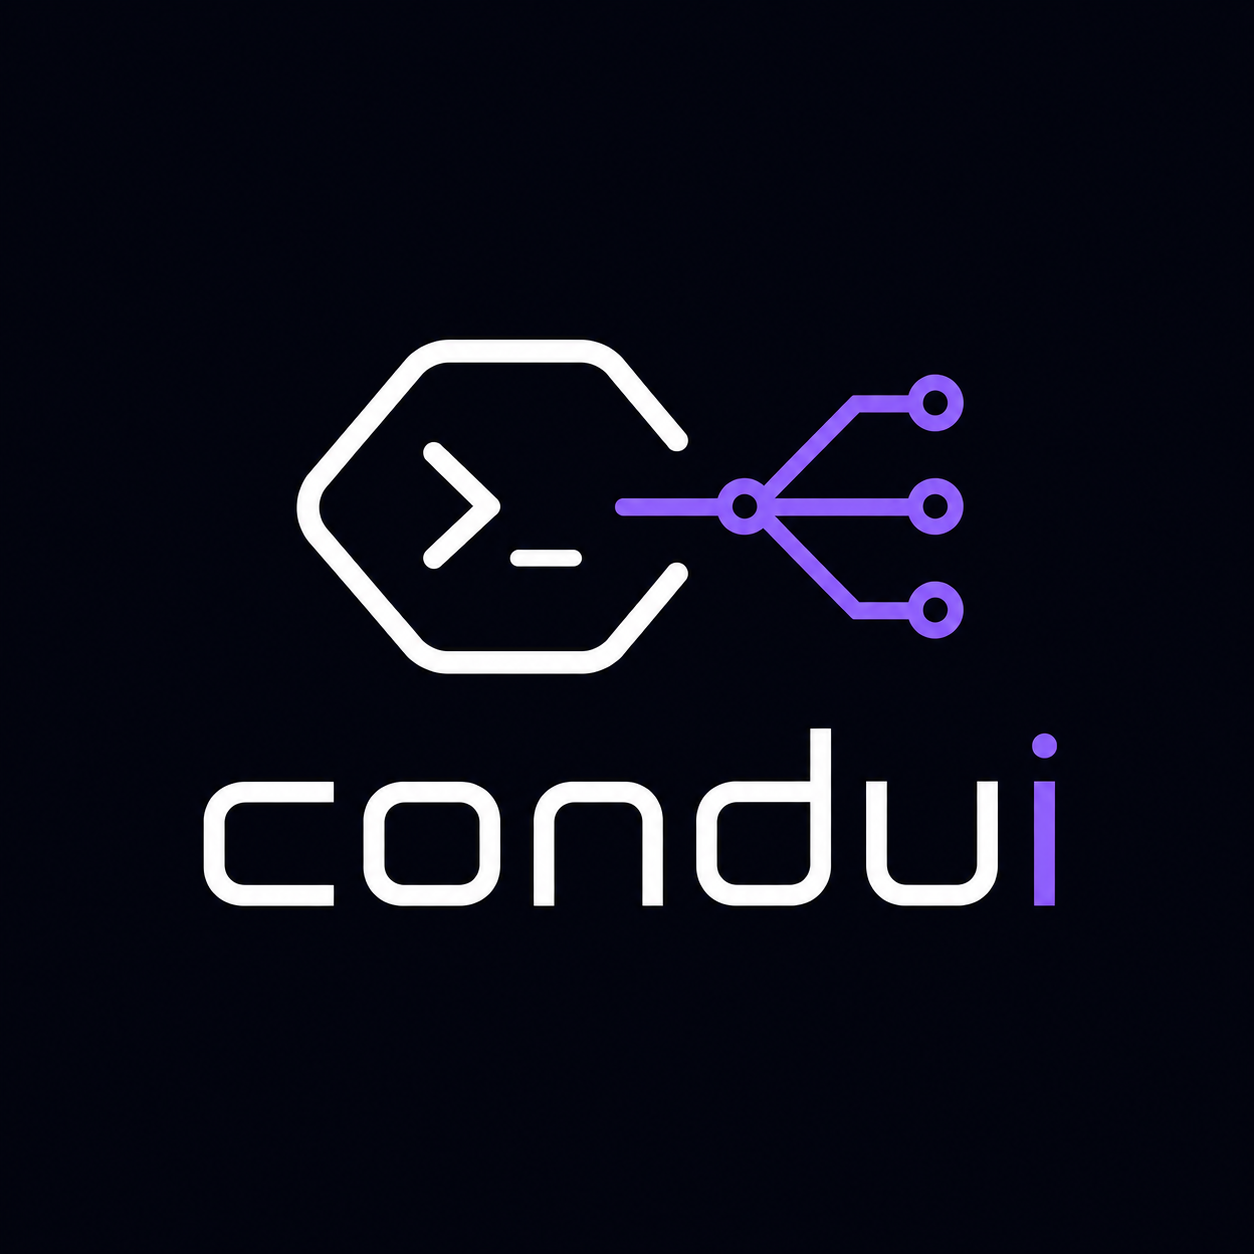
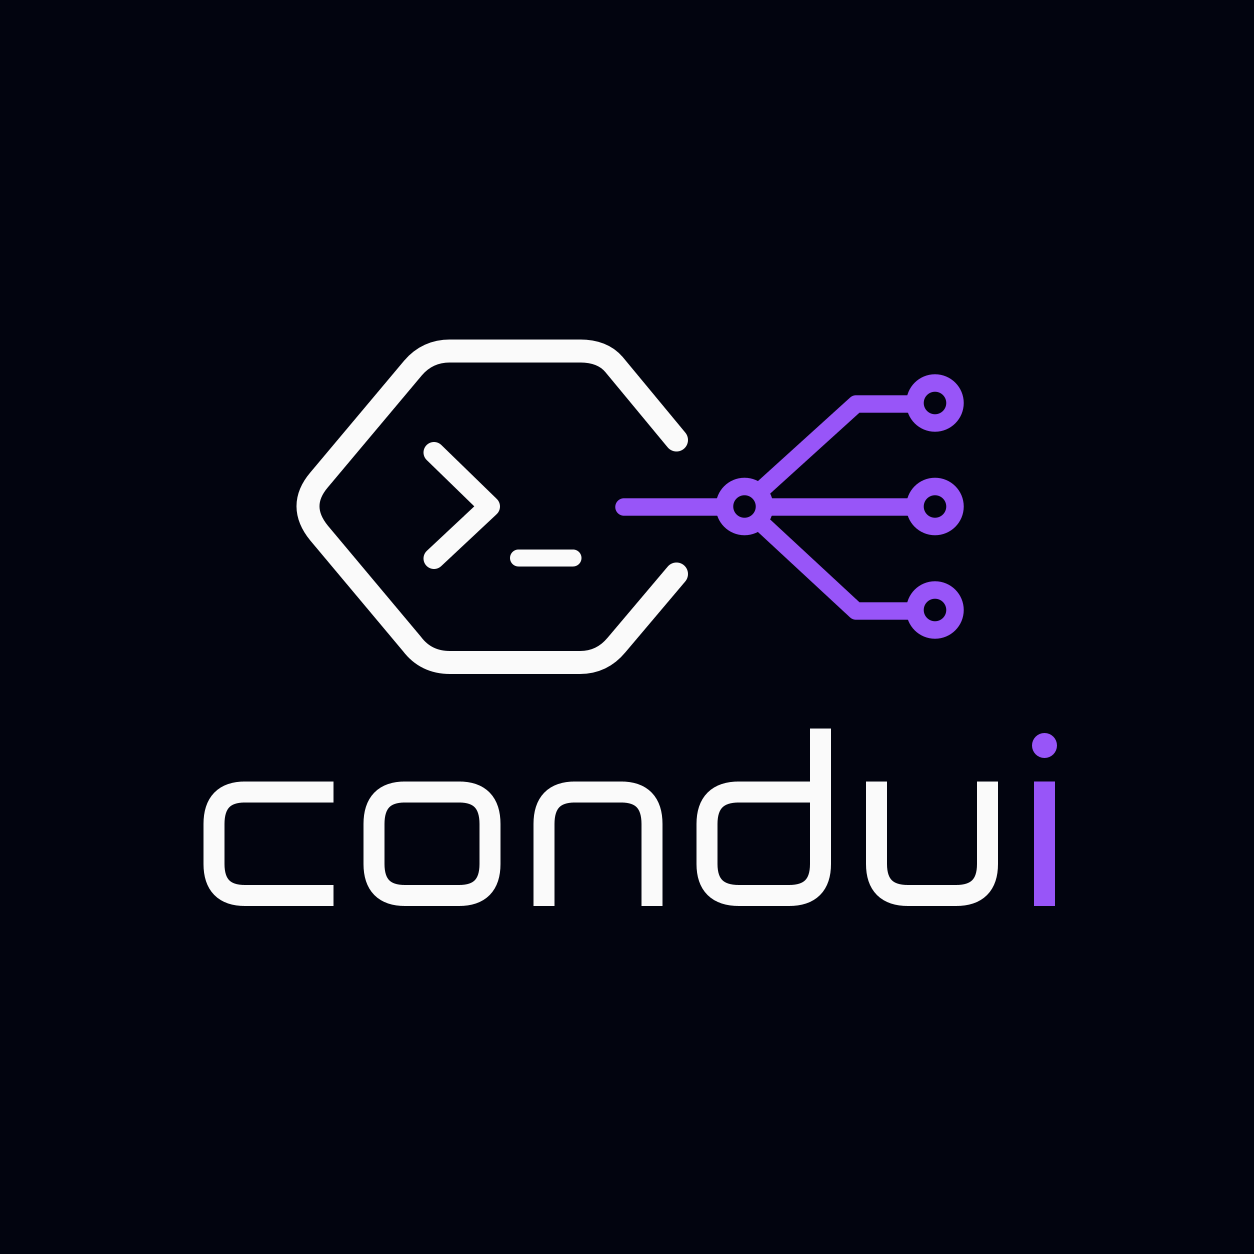
style: tema oscuro

diff --git a/ssh-gui/frontend/src/components/account/AccountModal.jsx b/ssh-gui/frontend/src/components/account/AccountModal.jsx
@@ -5,6 +5,7 @@ import { AccountLogin, AccountLoginWithPin, AccountLogout, AccountRegister, Acco
 import ResponseMessage from "../common/ResponseMessage";
 import useResponseAction from "../../hooks/useResponseAction";
 import LanguageSwitcher from "../common/LanguageSwitcher";
+import ThemeSwitcher from "../common/ThemeSwitcher";
 import SettingsSidebar from "./SettingsSidebar";
 
 const SERVER_URL = import.meta.env.VITE_CONDUI_SERVER_URL || "";
@@ -124,8 +125,8 @@ export default function AccountModal({ onClose, onBusyChange }) {
   const pages = {
     account: <><Header title={status.loggedIn ? t("account.account") : t("account.signInTitle")} text={status.loggedIn ? t("settings.accountDescription") : t("account.signInDescription")} />{status.loggedIn ? <><div className="account-info-card settings-account-card"><div className="account-avatar">{status.email?.[0]?.toUpperCase() || "?"}</div><div className="account-info-details"><div className="account-email">{status.email}</div><span className={`tier-badge tier-${status.tier}`}>{status.tier === "pro" ? t("common.pro") : t("common.free")}</span></div></div><div className="settings-group"><Row title={t("settings.plan")} text={status.limits ? formatLimits(status.limits) : t("account.freePlanDescription")}>{status.tier === "free" && <a className="settings-inline-link" href="https://condui.app/upgrade" target="_blank" rel="noreferrer">{t("account.upgrade")} <FaArrowRight /></a>}</Row></div></> : authForm}</>,
     sync: <><Header title={t("settings.sections.sync")} text={t("settings.syncDescription")} /><div className="settings-group"><Row title={t("settings.syncStatus")} text={status.loggedIn ? (status.lastSync ? t("account.lastSync", { date: new Date(status.lastSync).toLocaleString(i18n.language) }) : t("account.neverSynced")) : t("settings.signInRequired")}><button className="btn-secondary btn-sm" onClick={() => { setSyncDone(false); handleSync(); }} disabled={sync.busy || !status.loggedIn}>{sync.busy ? t("account.syncing") : t("account.syncNow")}</button></Row></div><ResponseMessage {...(sync.response || (syncDone ? { severity: "success", message: t("account.synced") } : {}))} /></>,
-    appearance: <><Header title={t("settings.sections.appearance")} text={t("settings.appearanceDescription")} /><div className="settings-group"><Row title={t("settings.language")} text={t("settings.languageDescription")}><LanguageSwitcher /></Row></div></>,
-    security: <><Header title={t("settings.sections.security")} text={t("settings.securityDescription")} /><div className="settings-empty-state"><strong>{t("settings.securityManaged")}</strong><span>{t("settings.securityManagedDescription")}</span></div></>,
+    appearance: <><Header title={t("settings.sections.appearance")} text={t("settings.appearanceDescription")} /><div className="settings-group"><Row title={t("settings.theme.title")} text={t("settings.theme.description")}><ThemeSwitcher /></Row><Row title={t("settings.language")} text={t("settings.languageDescription")}><LanguageSwitcher /></Row></div></>,
+    security: <><Header title={t("settings.sections.security")} text={t("settings.securityDescription")} /><Row className="settings-empty-state" title={t("settings.securityManaged")} text={t("settings.securityManagedDescription")} /></>,
     updates: <><Header title={t("settings.sections.updates")} text={t("settings.updatesDescription")} /><div className="settings-group"><Row title={t("settings.appVersion")} text={appVersion ? t("account.version", { version: appVersion }) : t("common.loading")}><button className="btn-secondary btn-sm" onClick={handleUpdates} disabled={checkingUpdate}>{checkingUpdate ? t("account.checkingForUpdates") : t("account.checkForUpdates")}</button></Row></div>{updateMsg && <div className="vault-error">{updateMsg}</div>}</>,
   };
 
@@ -133,4 +134,4 @@ export default function AccountModal({ onClose, onBusyChange }) {
 }
 
 function Header({ title, text }) { return <header className="settings-section-header"><h1>{title}</h1><p>{text}</p></header>; }
-function Row({ title, text, children }) { return <div className="settings-row"><div><strong>{title}</strong><span>{text}</span></div>{children}</div>; }
+function Row({ title, text, children, className }) { return <div className={`settings-row ${className || ""}`}><div><strong>{title}</strong><span>{text}</span></div>{children}</div>; }

diff --git a/ssh-gui/frontend/src/App.jsx b/ssh-gui/frontend/src/App.jsx
@@ -4,7 +4,7 @@ import { FitAddon } from "@xterm/addon-fit";
 import { Unicode11Addon } from "@xterm/addon-unicode11";
 import { WebLinksAddon } from "@xterm/addon-web-links";
 import "@xterm/xterm/css/xterm.css";
-import conduiLogo from "./assets/images/condui-transparent.png";
+import ConduiLogo from "./components/common/ConduiLogo";
 import { FaChevronLeft, FaCheck, FaCopy, FaEraser, FaExclamationTriangle, FaFolder, FaInbox, FaPaste, FaTimes, FaUser, FaTerminal, FaPlus } from "react-icons/fa";
 
 import { Events } from "@wailsio/runtime";
@@ -321,7 +321,7 @@ function LeftSidebar({
       </div>
 
       <div className="sidebar-footer">
-        <img className="logo-image-sm" src={conduiLogo} />
+        <ConduiLogo className="logo-image-sm" />
       </div>
     </div>
   );
@@ -1137,9 +1137,7 @@ function App() {
           </button>
         )}
         <div className="topbar-logo">
-          <span className="topbar-logo-wordmark">
-            condu<span className="i">i</span>
-          </span>
+          <ConduiLogo horizontal className="topbar-logo-image" />
           <span className="topbar-logo-tagline">{t("app.sshManager")}</span>
         </div>
         <InAppWindowTabs sessionNames={Object.fromEntries(tabs.map((tab) => [tab.id, tab.title]))} />

diff --git a/ssh-gui/frontend/src/services/theme.js b/ssh-gui/frontend/src/services/theme.js
@@ -1,0 +1,36 @@
+const KEY = "condui-theme";
+const modes = ["light", "dark", "system"];
+const system = window.matchMedia("(prefers-color-scheme: dark)");
+let preference = "system";
+
+try {
+  const saved = localStorage.getItem(KEY);
+  if (modes.includes(saved)) preference = saved;
+} catch (_) {}
+
+function applyTheme() {
+  const resolved = preference === "system" ? (system.matches ? "dark" : "light") : preference;
+  document.documentElement.dataset.theme = resolved;
+  document.documentElement.style.colorScheme = resolved;
+}
+
+export function getTheme() {
+  return preference;
+}
+
+export function setTheme(value) {
+  if (!modes.includes(value)) return;
+  preference = value;
+  try { localStorage.setItem(KEY, value); } catch (_) {}
+  applyTheme();
+  window.dispatchEvent(new Event("themechange"));
+}
+
+system.addEventListener("change", applyTheme);
+window.addEventListener("storage", (event) => {
+  if (event.key !== KEY && event.key !== null) return;
+  preference = modes.includes(event.newValue) ? event.newValue : "system";
+  applyTheme();
+  window.dispatchEvent(new Event("themechange"));
+});
+applyTheme();

diff --git a/ssh-gui/frontend/src/styles/theme.css b/ssh-gui/frontend/src/styles/theme.css
@@ -1,0 +1,38 @@
+:root[data-theme="dark"] {
+  --bg-base: #14121c;
+  --bg-surface: #1c1927;
+  --bg-elevated: #242031;
+  --bg-hover: #302941;
+  --bg-white: #1c1927;
+  --border: #403750;
+  --border-subtle: #302a3e;
+  --text-primary: #f0edf8;
+  --text-secondary: #c0b7d4;
+  --text-muted: #a69bbd;
+  --accent: #a78bfa;
+  --accent-rgb: 167, 139, 250;
+  --accent-hover: #9473ed;
+  --shadow-sm: 0 1px 3px rgba(0, 0, 0, 0.3);
+}
+
+.theme-switcher {
+  min-width: 120px;
+  height: 32px;
+  padding: 0 9px;
+  border: 1px solid var(--border);
+  border-radius: 8px;
+  background: var(--bg-surface);
+  color: var(--text-primary);
+  font: inherit;
+  cursor: pointer;
+}
+
+.theme-switcher:focus-visible {
+  outline: 2px solid var(--accent);
+  outline-offset: 2px;
+}
+
+.language-switcher option {
+  background: var(--bg-surface);
+  color: var(--text-primary);
+}

diff --git a/ssh-gui/frontend/src/components/common/ThemeSwitcher.jsx b/ssh-gui/frontend/src/components/common/ThemeSwitcher.jsx
@@ -1,0 +1,20 @@
+import { useEffect, useState } from "react";
+import { useTranslation } from "react-i18next";
+import { getTheme, setTheme } from "../../services/theme";
+
+export default function ThemeSwitcher() {
+  const { t } = useTranslation();
+  const [theme, updateTheme] = useState(getTheme);
+
+  useEffect(() => {
+    const refresh = () => updateTheme(getTheme());
+    window.addEventListener("themechange", refresh);
+    return () => window.removeEventListener("themechange", refresh);
+  }, []);
+
+  return (
+    <select className="theme-switcher" aria-label={t("settings.theme.title")} value={theme} onChange={(event) => setTheme(event.target.value)}>
+      {["light", "dark", "system"].map((mode) => <option key={mode} value={mode}>{t(`settings.theme.${mode}`)}</option>)}
+    </select>
+  );
+}

diff --git a/ssh-gui/frontend/src/components/common/ConduiLogo.jsx b/ssh-gui/frontend/src/components/common/ConduiLogo.jsx
@@ -1,0 +1,14 @@
+import lightLogo from "../../assets/images/condui_light_theme.png";
+import darkLogo from "../../assets/images/condui_dark_theme.png";
+import lightHorizontal from "../../assets/images/condui_horizonta_light_theme.png";
+import darkHorizontal from "../../assets/images/condui_horizontal_dark_Theme.png";
+import "./ConduiLogo.css";
+
+export default function ConduiLogo({ horizontal = false, className = "", style }) {
+  return (
+    <>
+      <img className={`condui-logo-light ${className}`} src={horizontal ? lightHorizontal : lightLogo} alt="Condui" style={style} />
+      <img className={`condui-logo-dark ${className}`} src={horizontal ? darkHorizontal : darkLogo} alt="Condui" style={style} />
+    </>
+  );
+}

diff --git a/ssh-gui/frontend/src/components/account/VaultUnlock.jsx b/ssh-gui/frontend/src/components/account/VaultUnlock.jsx
@@ -1,6 +1,6 @@
 import { useState, useEffect } from "react";
 import { IsVaultSetup, SetupMasterPassword, UnlockVault } from "../../../bindings/ssh-gui/app";
-import conduiLogo from "../../assets/images/condui-transparent.png";
+import ConduiLogo from "../common/ConduiLogo";
 import { useTranslation } from "react-i18next";
 
 export default function VaultUnlock({ onUnlocked }) {
@@ -67,7 +67,7 @@ export default function VaultUnlock({ onUnlocked }) {
     <div className="vault-screen">
       <div className="vault-card">
         <div className="vault-logo">
-          <img src={conduiLogo} alt="Condui" style={{ height: 48 }} />
+          <ConduiLogo style={{ height: 48 }} />
         </div>
 
         {mode === "setup" ? (

diff --git a/ssh-gui/frontend/src/main.jsx b/ssh-gui/frontend/src/main.jsx
@@ -1,11 +1,13 @@
 import React, { lazy, Suspense } from "react";
 import { createRoot } from "react-dom/client";
 import "./platform";
+import "./services/theme";
 import "./style.css";
 import "./components/Layout.css";
 import "./mobile.css";
 import "./i18n";
 import "bootstrap/dist/css/bootstrap.min.css";
+import "./styles/theme.css";
 
 const App = lazy(() => import("./App"));
 const DockerExplorer = lazy(() => import("./components/docker/DockerExplorer"));

diff --git a/ssh-gui/frontend/src/components/Layout.css b/ssh-gui/frontend/src/components/Layout.css
@@ -2201,7 +2201,7 @@ select.modern-input {
 /* HEADER */
 
 .remote-editor-header {
-  background-color: #ffffff;
+  background-color: var(--bg-surface);
   height: 54px;
   padding: 0 16px;
   display: flex;
@@ -2243,7 +2243,7 @@ select.modern-input {
 /* FOOTER */
 
 .remote-editor-footer {
-  background-color: #ffffff;
+  background-color: var(--bg-surface);
   height: 48px;
   padding: 0 14px;
   display: flex;

diff --git a/ssh-gui/frontend/src/components/common/ConduiLogo.css b/ssh-gui/frontend/src/components/common/ConduiLogo.css
@@ -1,0 +1,16 @@
+.condui-logo-dark {
+  display: none;
+}
+
+:root[data-theme="dark"] .condui-logo-light {
+  display: none;
+}
+
+:root[data-theme="dark"] .condui-logo-dark {
+  display: inline-block;
+}
+
+.topbar-logo-image {
+  height: 24px;
+  width: auto;
+}
